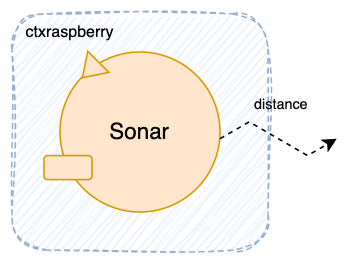
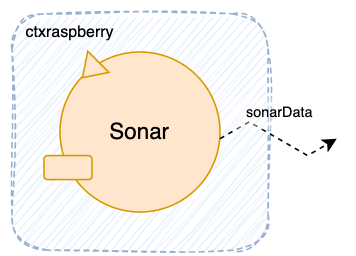
Sprint 0 - UserDocs: Refactoring V2 (Sonar update)

Changed region(s): [[0.6798, 0.375, 0.8961, 0.5]]

diff --git a/Sprint-0/userDocs/Sprint0-LLA.html b/Sprint-0/userDocs/Sprint0-LLA.html
@@ -30,7 +30,9 @@
 <div class="body">
 <h2>Introduction</h2>
 <div class="remark">
-<p>Progetto finale di ISS che consiste nel realizzare un sistema di gestione dei rifiuti in cui un robot svolge il compito di trasportare i materiali dal camion ai relativi contenitori di smistamento. Attualmente, ci concentriamo su una fase preliminare di analisi dei requisiti, che consiste nel comprendere le esigenze del cliente e tradurle in una forma formalizzata e strutturata.</p>
+<p>Progetto finale di ISS che consiste nel realizzare un sistema di gestione dei rifiuti in cui un robot svolge il compito
+    di trasportare i materiali dal camion ai relativi contenitori di smistamento. Attualmente, ci concentriamo su una fase
+    preliminare di analisi dei requisiti, che consiste nel comprendere le esigenze del cliente e tradurle in una forma formalizzata e strutturata.</p>
 
 </div>
 
@@ -170,7 +172,7 @@
         <pre><code>
     Enum TTRoutes = {HI, IP, IG, PH, GH, <r>PI, GI</r>}
         </code></pre>
-        <img src="img/ServiceAreaPosition-Routes2.png" alt="">
+        <img src="img/ServiceAreaPosition-Routes2.png" alt="" style="width: 400px">
 
         <p>Date le seguenti ulteriori informazioni:</p>
         <ul>
@@ -183,7 +185,7 @@
         <pre><code>
     Enum TTRoutes = {HI, IP, PI, PH, PG, GP, GH}
         </code></pre>
-        <img src="img/ServiceAreaPosition-Routes3.png" alt="">
+        <img src="img/ServiceAreaPosition-Routes3.png" alt="" style="width: 400px">
     </div>
 
 
@@ -192,7 +194,8 @@
     <div class="remark">
     <!------------------------ ------------------------>
         <h3>DDR Robot</h3>
-        <p>Con <r>DDR Robot</r> si intende <i>Differential Drive Robot</i> la cui documentazione è disponibile nel documento seguente, fornito dalla nostra <i>Software House</i>: <a target="_blank" href="https://htmlpreview.github.io/?https://raw.githubusercontent.com/anatali/issLab2022/main/it.unibo.issLabStart/userDocs/Dispense/lezioni/html/VirtualRobot.html#differential-drive-robot">Differential Drive Robot</a></p>
+        <p>Con <r>DDR Robot</r> si intende <i>Differential Drive Robot</i> la cui documentazione è disponibile nel documento seguente, fornito dalla nostra <i>Software House</i>:
+            <a target="_blank" href="https://htmlpreview.github.io/?https://raw.githubusercontent.com/anatali/issLab2022/main/it.unibo.issLabStart/userDocs/Dispense/lezioni/html/VirtualRobot.html#differential-drive-robot">Differential Drive Robot</a></p>
         <p>Non avendo a disposizione un <r>DDR Robot</r> fisico e considerando i tempi, i costi di realizzazione del robot e la necessità di effettuare test
             del <i>Software</i>, viene messo a disposizione, dalla nostra <i>Software House</i>, un simulatore virtuale del <r>DDR Robot</r>: il <i><a target="_blank" href="http://htmlpreview.github.io/?https://github.com/LucaLand/WasteService22-LLA/blob/dev/sprint-0/Sprint-0/userDocs/wenv.html">"Wenv22-VirtualRobot</a></i>.</p>
         <p>Questo simula in ambiente virtuale, le caratteristiche principali e i comportamenti del <r>DDR</r> permettendo il testing e la simulazione della nostra architettura come su un <r>DDR</r> fisico.</p>
@@ -213,7 +216,7 @@
             <li>È in grado di utilizzare diversi tipi di robot (virtuali e reali) costruiti ciascuno con una propria tecnologia</li>
             <li>È in grado di percepire e gestire informazioni provenienti dall’ambiente</li>
         </ul>
-        <img src="./img/basicrobot22-image0.png" alt="basicrobot22" style="width: 250px">
+        <img src="./img/BasicRobot22.png" alt="basicrobot22" style="width: 200px">
         <p>Nel seguente file la documentazione completa: <c><a target="_blank" href="https://htmlpreview.github.io/?https://raw.githubusercontent.com/anatali/issLab2022/main/it.unibo.issLabStart/userDocs/Dispense/lezioni/html/BasicRobot22.html">BasicRobot22</a></c>.
         E un suo modello eseguibile <a href="https://github.com/anatali/issLab2022/blob/main/unibo.basicrobot22/src/basicrobot.qak">basicrobot.qak</a></p>
 
@@ -326,8 +329,8 @@ QActor transporttrolley context ctxwasteservice {
             <li>Reply <code>loadrejecetd</code>: risposta negativa alla richiesta di deposito dei rifiuti. L'ID incluso nella risposta corrisponde all'ID della richiesta di deposito.</li>
         </ul>
         <p>Il parametro <code>ID</code> è stato inserito per poter gestire richieste duplicate ed eventuali errori, rendendo più robusto il sistema</p>
-        <tt>Il committente ha specificato che sarebbe meglio mandare via il truck il prima possibile, per questo motivo,
-            non essendo specificati altri comportamenti per il <r>Waste Truck</r> non risulta necessario l'invio di entrambi i messaggi <code>loadaccept</code> e <code>pickupOk</code>.
+        <tt>Il committente ha specificato che sarebbe meglio mandare via il truck il prima possibile e non definisce ulteriori operazoini da effettuare con il <r>Waste Truck</r>.<br>
+            Per questo motivo il <r>Waste Truck</r> può essere svincolato direttamente dopo la risposta <code>loadaccept</code>.
             <p>La formalizzazione dei messaggi e dell'interazione Request/Response evolve come segue:</p>
             <p>Viene modificato il significato della <code>loadaccept</code> come segue:</p>
             <ul><li>La <u><code>loadaccept</code> verrà inviata direttamente al completamento dello scarico dei rifiuti</u> da parte del <r>DDR</r> svincolando direttamente il <r>Waste Truck</r></li></ul>
@@ -459,33 +462,45 @@ QActor ledactor context ctxraspberry {
 
         <h3>Sonar</h3>
         <p>Strumento connesso in input al componente RaspberryPI esterno al <r>DDR Robot</r>.</p>
-
-        <p>Il software relativo al sonar è fornito dal committente in <b>unibo.basicrobot22,
-            it.unibo.radarSystem22.domain,
-            unibo.sonarqak22</b>.</p>
-        <p>Un attore emetterà eventi a seconda della distanza rilevata dal sonar e manda comandi al sonar.</p>
-
-<p>Sonar Qak già implementato fornito nel package unibo.actor22.events della directory test del progetto unibo.actor22, riportiamo la classe SonarActor22
-che definisce il Sonar come un attore proattivo e reattivo.
-        <img src="img/SonarActor.png" alt="" style="width: 250px">
-<p><a target="_blank" href="https://htmlpreview.github.io/?https://raw.githubusercontent.com/anatali/issLab2022/main/it.unibo.issLabStart/userDocs/Dispense/lezioni/html/SonarObservable.html#il-sonar-come-attore-che-emette-eventi"> Documentazione SonarActor22</a></p>
-<p><a href="https://github.com/anatali/issLab2022/blob/main/unibo.sonarqak22/src/sonarqak22.qak">Metamodello QAK SonarQak22</a></p>
-    <!------------------------ ------------------------>
+        <p>Il Sonar è un dispositivo che emette informazioni sulla presenza di oggetti a lui davanti e sulla loro distanza.</p>
+        <p>Il Software per l'utilizzo del sonar fisico installato sul <b>Raspberry</b> viene fornito dal committente nel progetto <a href="https://github.com/anatali/issLab2022/tree/main/unibo.sonarqak22">SonarActor22</a></p>
+<!--        <p>Il software relativo al sonar è fornito dal committente in <b>unibo.basicrobot22,-->
+<!--            it.unibo.radarSystem22.domain,-->
+<!--            unibo.sonarqak22</b>.</p>-->
 
         <h4>DLimit</h4>
-        <p> Distanza limite relativa al <r>Sonar</r> espressa in numero decimale.</p>
-        <pre><code>
+            <p> Distanza limite relativa al <r>Sonar</r> espressa in numero decimale.</p>
+            <pre><code>
     val DLIMIT	:	Float
+            </code></pre>
+
+            <p>Se la distanza corrente misurata dal Sonar è ≤ DLIMT, il robot deve fermarsi. Quando la distanza corrente è > DLIMIT il robot è libero di muoversi.
+                Definiamo la costante <b>DLIMIT</b>:</p>
+
+            <ul>Più precisamente, quello che ci si aspetta quando la distanza diventa ≤ DLIMT, è che:
+                <li>Se il robot si sta muovendo esso si ferma. Riprenderà il moto solo quando la distanza torna <code>> DLIMIT</code></li>
+                <li>Ogni altra operazione del robot deve terminare. Una volta terminata si rimane in attesa finché la
+                    distanza non ritorna <code>> DLIMIT</code></li>
+            </ul>
+
+        <h4>SonarQak22</h4>
+        <p>Il <r>SonarQak22</r> è un attore emetterà eventi a seconda della distanza rilevata dal sonar. <a target="_blank" href="https://htmlpreview.github.io/?https://raw.githubusercontent.com/anatali/issLab2022/main/it.unibo.issLabStart/userDocs/Dispense/lezioni/html/SonarObservable.html#il-sonar-come-attore-che-emette-eventi"> Documentazione SonarActor22</a></p>
+
+        <p>Esso funziona tramite l'utilizzo dei seguenti messaggi ed eventi.</p>
+        <pre><code>
+    Dispatch sonaractivate   : info(ARG)
+    Dispatch sonardeactivate : info(ARG)
+    Event    sonar           : distance( V )   //emitted by sonarSimulator or sonardatasource
+    Event    sonardata       : distance( V )   //for the application level
         </code></pre>
+        <p><a href="https://github.com/anatali/issLab2022/blob/main/unibo.sonarqak22/src/sonarqak22.qak">Metamodello QAK SonarQak22</a></p>
 
-        <p>Se la distanza corrente misurata dal Sonar è ≤ DLIMT, il robot deve fermarsi. Quando la distanza corrente è > DLIMIT il robot è libero di muoversi.
-            Definiamo la costante <b>DLIMIT</b>:</p>
 
-        <ul>Più precisamente, quello che ci si aspetta quando la distanza diventa ≤ DLIMT, è che:
-            <li>Se il robot si sta muovendo esso si ferma. Riprenderà il moto solo quando la distanza torna <code>> DLIMIT</code></li>
-            <li>Ogni altra operazione del robot deve terminare. Una volta terminata si rimane in attesa finché la
-                distanza non ritorna <code>> DLIMIT</code></li>
-        </ul>
+
+        <img src="img/SonarActor.png" alt="" style="width: 250px">
+    <!------------------------ ------------------------>
+
+
 
         <br>
 
@@ -519,14 +534,22 @@ che definisce il Sonar come un attore proattivo e reattivo.
 
         <img src="img/WasteServiceStatusGui.png" alt="WasteServiceGui Architecture image" style="width: 200px">
 
-<br>
-
-    <!------------------------ ------------------------>
+    <br>
 
     </div>
 
+    <h3>Ulteriori Note</h3>
     <div class="remark">
-        <h2>Logical Architecture</h2>
+        <ul>
+            <li>Nessun meccanismo di svuotamento dei contenitori</li>
+
+        </ul>
+    </div>
+    <!------------------------ ------------------------>
+
+
+    <h2>Logical Architecture</h2>
+    <div class="remark">
         <img src="img/Logical_Architecture_complete_v2.png" alt="General Logical Architecture">
 
         <p><a href="https://github.com/LucaLand/WasteService22-LLA/blob/dev/sprint-0/Sprint-0/Logical_Architecture_QAK/src/Logical_Architecture_Local.qak">Metamodello QAK dell'Architettura Generale</a></p>
@@ -580,12 +603,3 @@ che definisce il Sonar come un attore proattivo e reattivo.
 </div>
 </body>
 </html>
-
-<!--
-            <li>Lo <i>smartdevice</i> è già stato sviluppato (o comunque è parte dei test), le richieste/risposte (<i>depositrequest</i>, <i>loadaccept</i>, <i>loadrejected</i>) sono requisito.</li>
-            <li>Il <i>basicrobot</i> è già stato sviluppato, le interazioni con il robot definite in termini di operazioni di message-passing (<i>cmdbase</i>, <i>cmdstep</i>, <i>situated</i>) sono quindi predefinite.</li>
-            <li>Il <i>wasteservice</i> è da sviluppare, l'interfaccia che espone verso l'esterno (<i>depositrequest</i>, <i>loadaccept</i>, <i>loadrejected</i>) è requisito, mentre l'interazione verso componenti interni (comandi da mandare al TT e aggiornare la capacità dei contenitori) per il momento non è stata considerata.</li>
-            <li>Il <i>transporttrolley</i> è da sviluppare, e sarà oggetto di analisi del prossimo sprint. Inoltre è ancora incerta la collocazione di questo componente (IN QUALE CONTESTO LO COLLOCHIAMO?).</li>
-            <li>Il <i>sonar</i> e il <i>led</i> sono da sviluppare: è disponibile software che dovrà essere analizzato prima di essere eventualmente utilizzato/adattato, VALUTARE SE LE INTERAZIONI SONO UN REQUISITO O GI&Agrave SONO IMPLEMENTATE.</li>
-            <li>Il <i>wasteservicestatusgui</i> è da analizzare/sviluppare, e sarà oggetto degli sprint successivi (al momento è incerta la collocazione e/o l'esistenza sotto forma di attore del componente). Le interazioni (TUTTE LE INFO PASSATE ALLA GUI) sono da valutare e al momento restano vaghe (SONO REQUISITO?).</li>
-        -->
